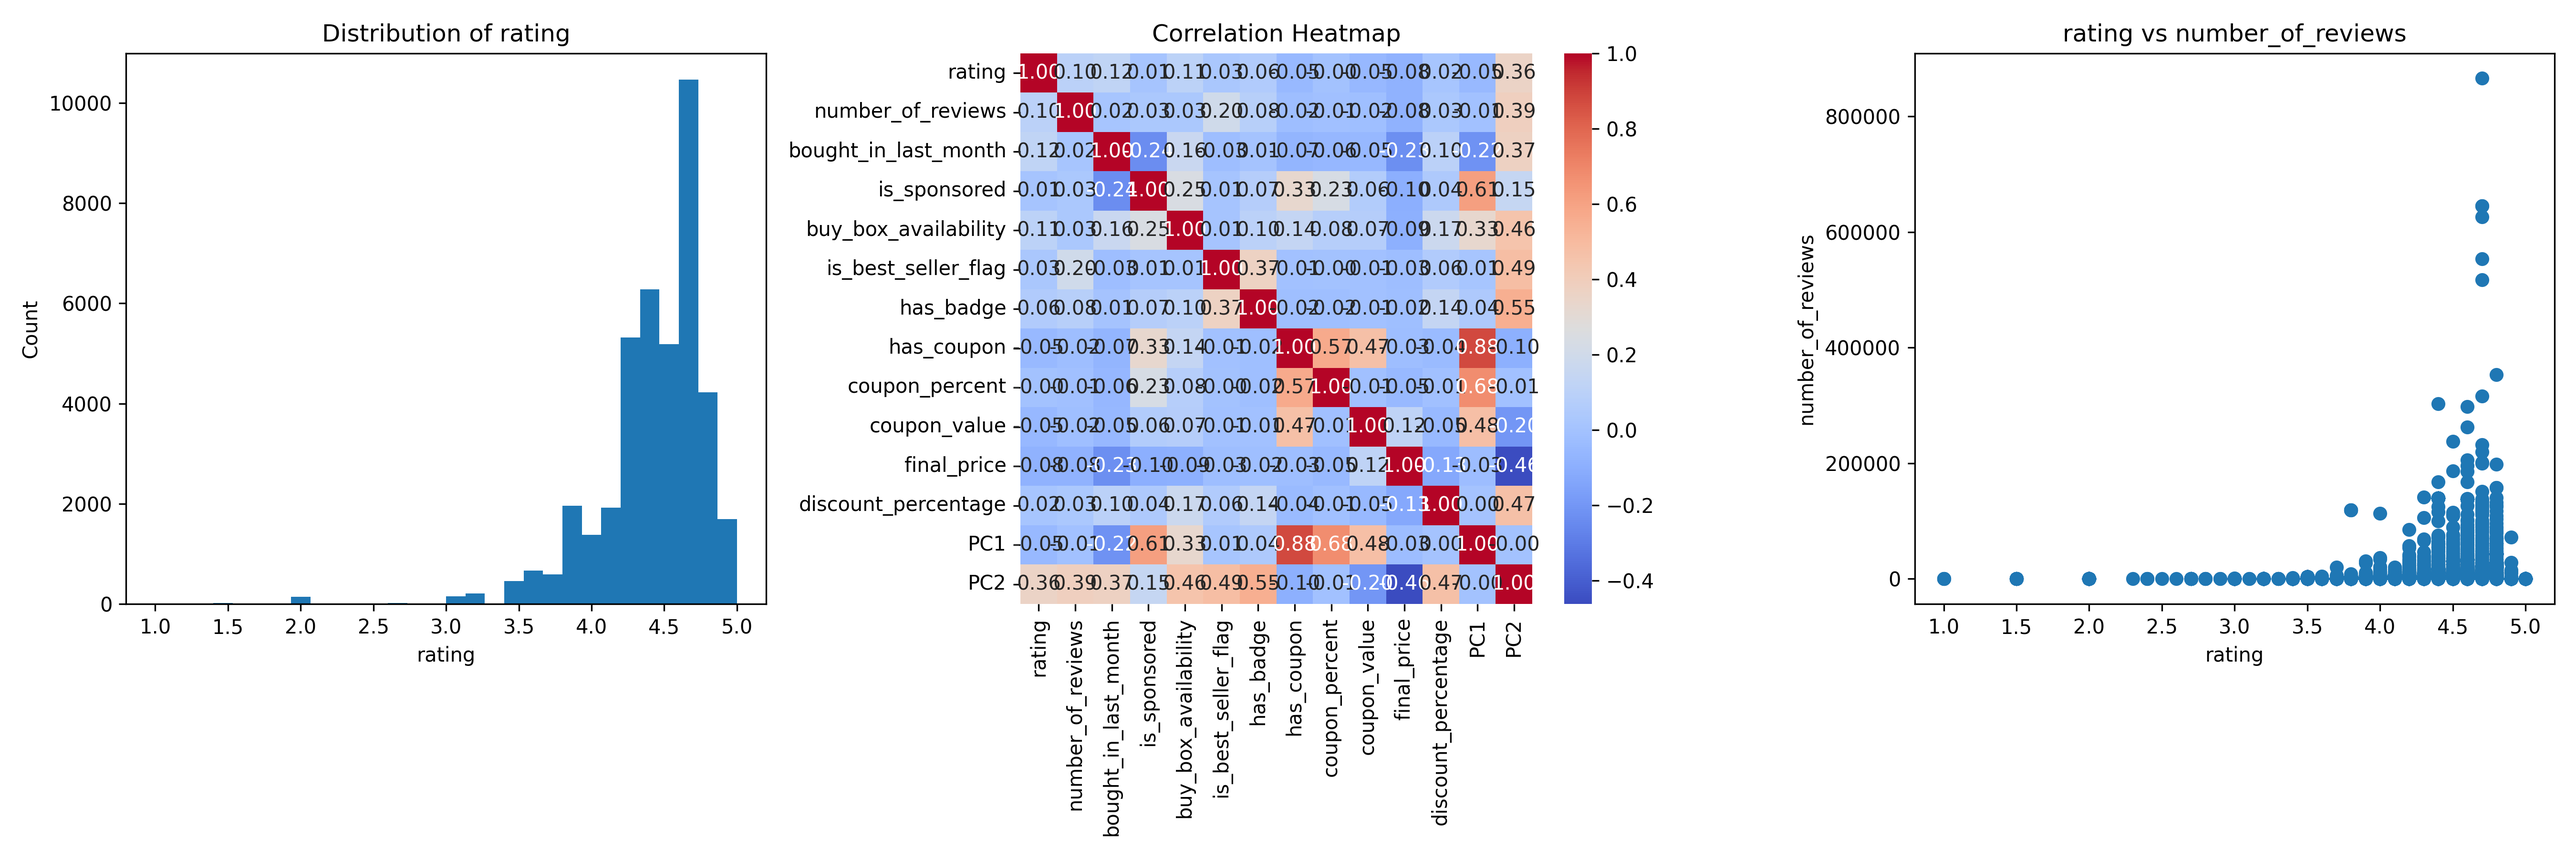
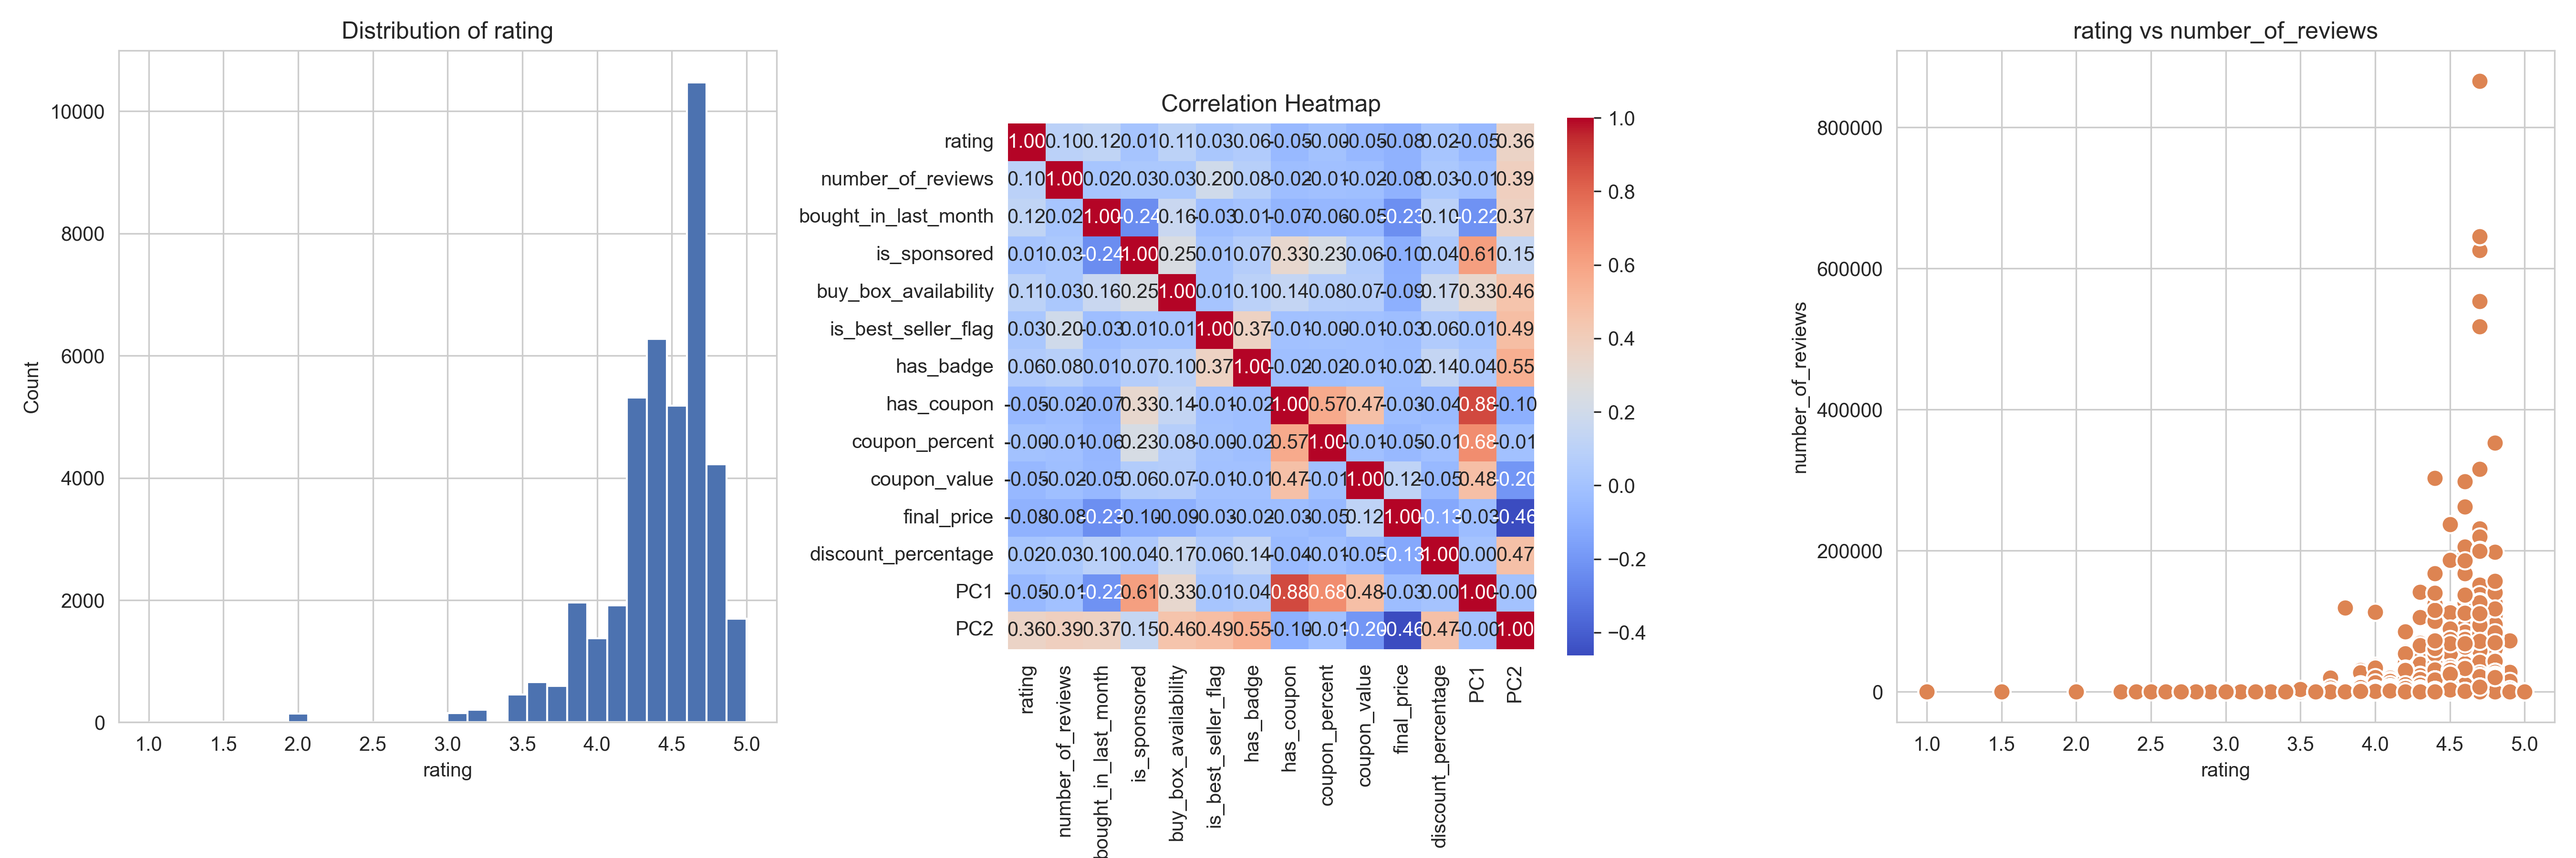
Visualization edits

diff --git a/visualize.py b/visualize.py
@@ -6,42 +6,81 @@ import os
 import subprocess
 
 # -------------------- Load dataset --------------------
+script_dir = os.path.dirname(os.path.abspath(__file__))
+results_dir = os.path.join(script_dir, "results")
+os.makedirs(results_dir, exist_ok=True)
+
 data_path = sys.argv[1]
 df = pd.read_csv(data_path)
 
-numeric_cols = df.select_dtypes(include=['int64', 'float64']).columns
+numeric_cols = df.select_dtypes(include=["int64", "float64"]).columns
 
-# -------------------- Create plots --------------------
-plt.figure(figsize=(18,6))
+sns.set_style("whitegrid")
 
-# Plot 1: Histogram
+# -------------------- Plot 1: Histogram --------------------
 if len(numeric_cols) > 0:
-    plt.subplot(1,3,1)
-    plt.hist(df[numeric_cols[0]], bins=30)
+    plt.figure(figsize=(10, 6))
+    sns.histplot(df[numeric_cols[0]], bins=30, kde=False, color="#4c72b0")
     plt.title(f"Distribution of {numeric_cols[0]}")
     plt.xlabel(numeric_cols[0])
     plt.ylabel("Count")
+    plt.tight_layout()
+    plt.savefig(os.path.join(results_dir, f"histogram_{numeric_cols[0]}.png"), dpi=300)
+    plt.close()
 
-# Plot 2: Correlation Heatmap
+# -------------------- Plot 2: Correlation Heatmap --------------------
 if len(numeric_cols) > 1:
-    plt.subplot(1,3,2)
-    sns.heatmap(df[numeric_cols].corr(), annot=True, fmt=".2f", cmap="coolwarm")
+    plt.figure(figsize=(10, 8))
+    corr = df[numeric_cols].corr()
+    sns.heatmap(corr, annot=True, fmt=".2f", cmap="coolwarm", square=True, cbar_kws={"shrink": 0.8})
     plt.title("Correlation Heatmap")
+    plt.tight_layout()
+    plt.savefig(os.path.join(results_dir, "correlation_heatmap.png"), dpi=300)
+    plt.close()
 
-# Plot 3: Scatter Plot
+# -------------------- Plot 3: Scatter Plot --------------------
 if len(numeric_cols) > 1:
-    plt.subplot(1,3,3)
-    plt.scatter(df[numeric_cols[0]], df[numeric_cols[1]])
+    plt.figure(figsize=(10, 6))
+    sns.scatterplot(x=df[numeric_cols[0]], y=df[numeric_cols[1]], color="#dd8452", edgecolor="w", s=75)
     plt.title(f"{numeric_cols[0]} vs {numeric_cols[1]}")
     plt.xlabel(numeric_cols[0])
     plt.ylabel(numeric_cols[1])
+    plt.tight_layout()
+    plt.savefig(os.path.join(results_dir, f"scatter_{numeric_cols[0]}_vs_{numeric_cols[1]}.png"), dpi=300)
+    plt.close()
+
+# -------------------- Combined summary plot --------------------
+fig, axes = plt.subplots(1, 3, figsize=(18, 6))
+
+if len(numeric_cols) > 0:
+    axes[0].hist(df[numeric_cols[0]], bins=30, color="#4c72b0")
+    axes[0].set_title(f"Distribution of {numeric_cols[0]}")
+    axes[0].set_xlabel(numeric_cols[0])
+    axes[0].set_ylabel("Count")
+else:
+    axes[0].set_visible(False)
+
+if len(numeric_cols) > 1:
+    corr = df[numeric_cols].corr()
+    sns.heatmap(corr, annot=True, fmt=".2f", cmap="coolwarm", square=True, cbar_kws={"shrink": 0.8}, ax=axes[1])
+    axes[1].set_title("Correlation Heatmap")
+else:
+    axes[1].set_visible(False)
+
+if len(numeric_cols) > 1:
+    axes[2].scatter(df[numeric_cols[0]], df[numeric_cols[1]], color="#dd8452", edgecolor="w", s=75)
+    axes[2].set_title(f"{numeric_cols[0]} vs {numeric_cols[1]}")
+    axes[2].set_xlabel(numeric_cols[0])
+    axes[2].set_ylabel(numeric_cols[1])
+else:
+    axes[2].set_visible(False)
 
 plt.tight_layout()
-plt.savefig("summary_plot.png", dpi=300)
+summary_path = os.path.join(script_dir, "summary_plot.png")
+fig.savefig(summary_path, dpi=300)
+fig.savefig(os.path.join(results_dir, "summary_plot.png"), dpi=300)
+plt.close(fig)
 
 # -------------------- Run cluster.py --------------------
-script_dir = os.path.dirname(os.path.abspath(__file__))
 cluster_path = os.path.join(script_dir, "cluster.py")
-
-# This will run cluster.py with the same dataset
 subprocess.run([sys.executable, cluster_path, data_path])

diff --git a/README.md b/README.md
@@ -35,6 +35,9 @@ Why cleanup?
 From the repository root (the folder that contains `customer-analytics/`):
 - `./customer-analytics/summary.sh`
 
+By default, `summary.sh` uses `customer-analytics/results/data_raw.csv` as the input dataset. If your raw dataset is stored elsewhere, pass it as an argument:
+- `./customer-analytics/summary.sh /path/to/data_raw.csv`
+
 This will:
 - Build the Docker image
 - Run the full pipeline inside a container
